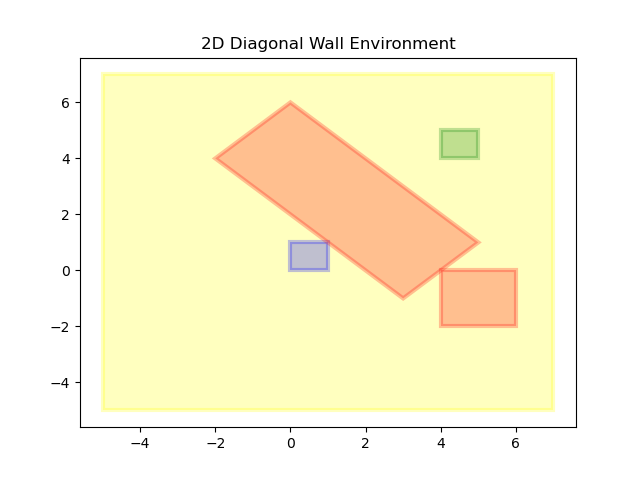
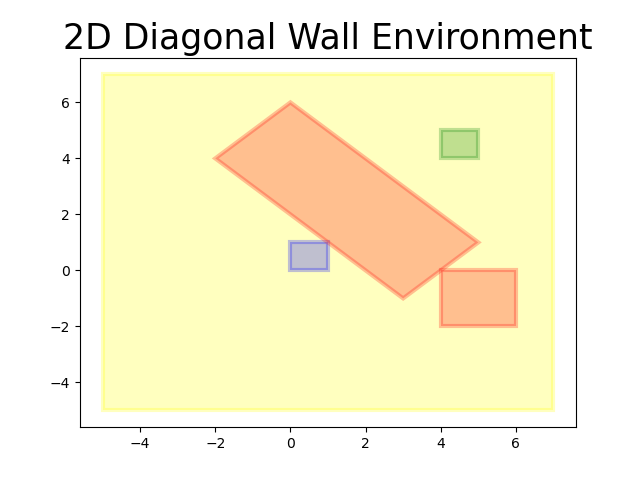
new plots

Changed region(s): [[0.0938, 0.0312, 0.9375, 0.125]]

diff --git a/+LLM/envs/plot_env.py b/+LLM/envs/plot_env.py
@@ -10,11 +10,14 @@ sys.path.append(factestPath2)
 
 from factest.plotting.plot_polytopes import plotPoly, plotPoly_3d
 
+plt.rc('axes', titlesize=25)
+
 
 def plot_env(title, workspace, G, Theta, O, save=False, plot3d=False, dir='./plots/', show=True):
     """
     Plot the environment with the workspace, goal region, initial region, and obstacles
     """
+
     if plot3d:
         plotPolytope = plotPoly_3d
         fig = plt.figure()
@@ -59,17 +62,17 @@ if __name__ == "__main__":
     import os
     import importlib.util
 
-    save = False  # if save is True, it will REMOVE all plot files from the plots directory
+    save = True  # if save is True, it will REMOVE all plot files from the plots directory
 
-    if save:  # only remove files
-        for file in os.listdir('./plots/'):
-            os.remove('./plots/' + file)
+    # if save:  # only remove files
+    #     for file in os.listdir('./plots/'):
+    #         os.remove('./plots/' + file)
 
     for env in os.listdir('.'):
-        if env.endswith('.py') and env != '__init__.py' and env != 'plot_env.py':
+        if env.endswith('.py') and env != '__init__.py' and env != 'plot_env.py' and "3d" not in env:
             spec = importlib.util.spec_from_file_location(env, env)
             module = importlib.util.module_from_spec(spec)
             spec.loader.exec_module(module)
 
             print('plotting ', env)
-            plot_env(module.title, module.workspace, module.G, module.Theta, module.O, save)
+            plot_env(module.title, module.workspace, module.G, module.Theta, module.O, save, dir='./manual/plots/')

diff --git a/+LLM/envs/box_boundary.py b/+LLM/envs/box_boundary.py
@@ -1,7 +1,7 @@
 import polytope as pc
 import numpy as np
 
-title = '2D Box Obstacle Boundary Environment'
+title = '2D Box Boundary Environment'
 A = np.array([[-1, 0],
               [1, 0],
               [0, -1],
